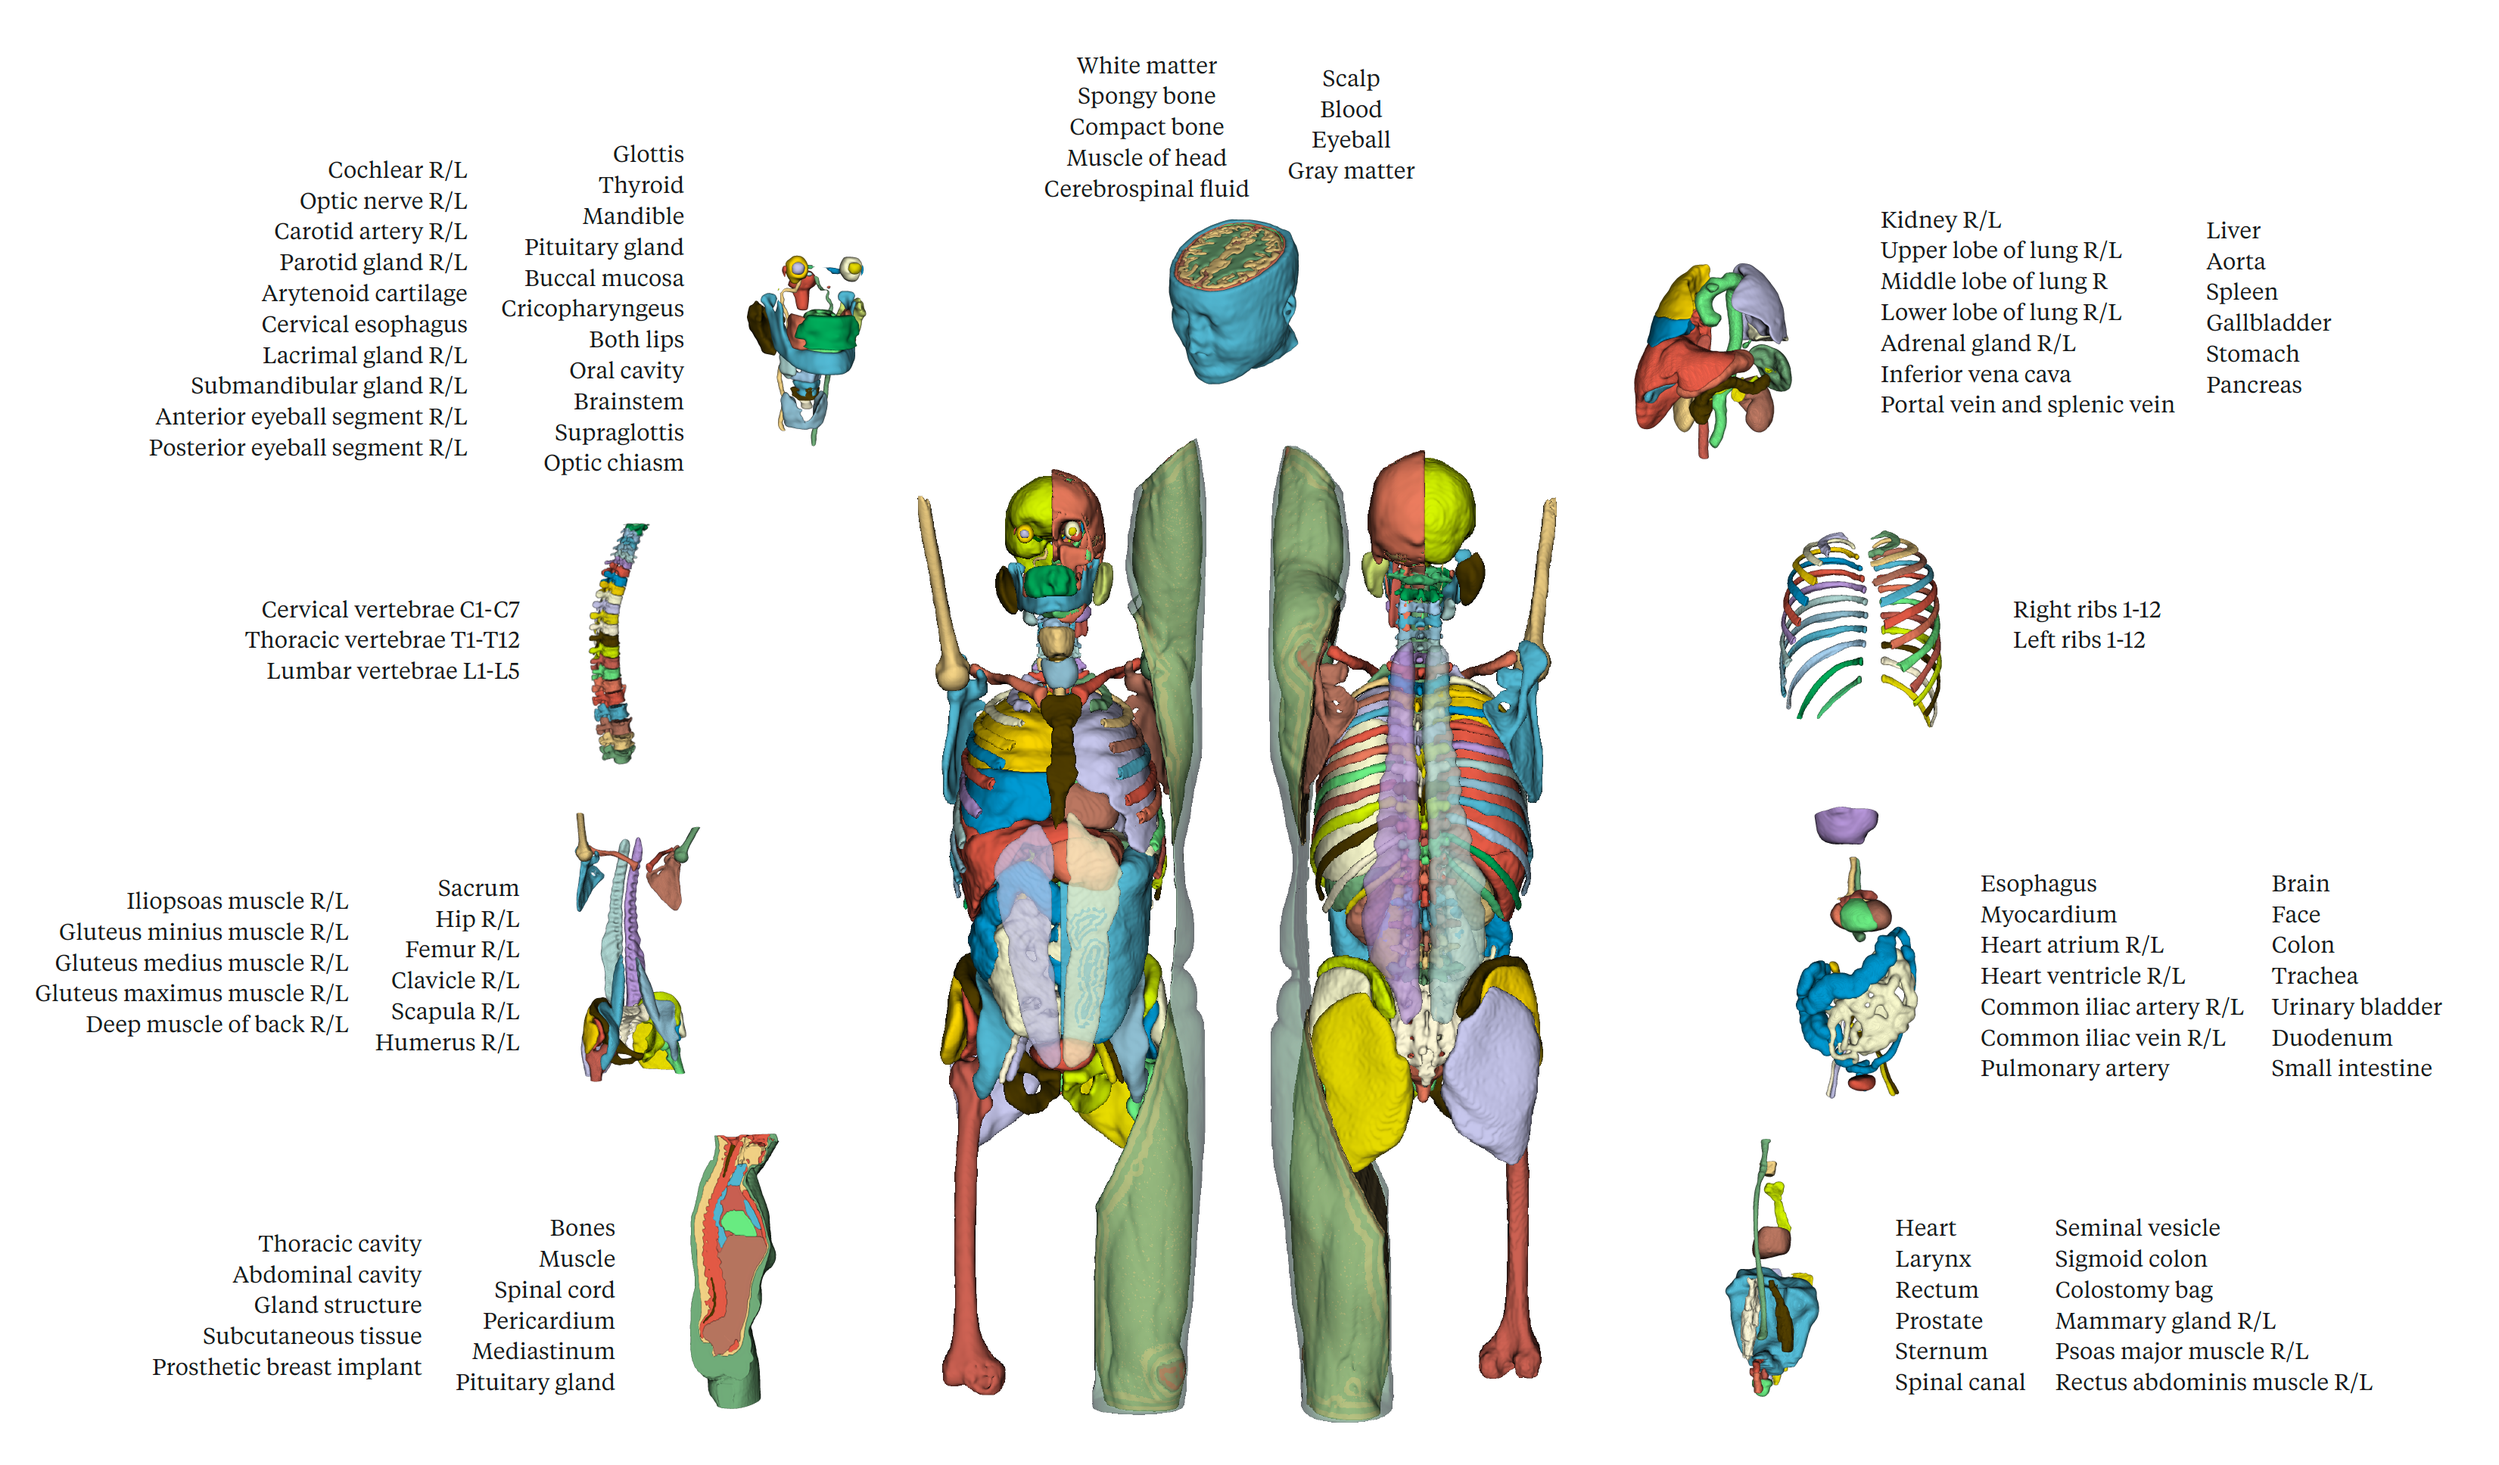
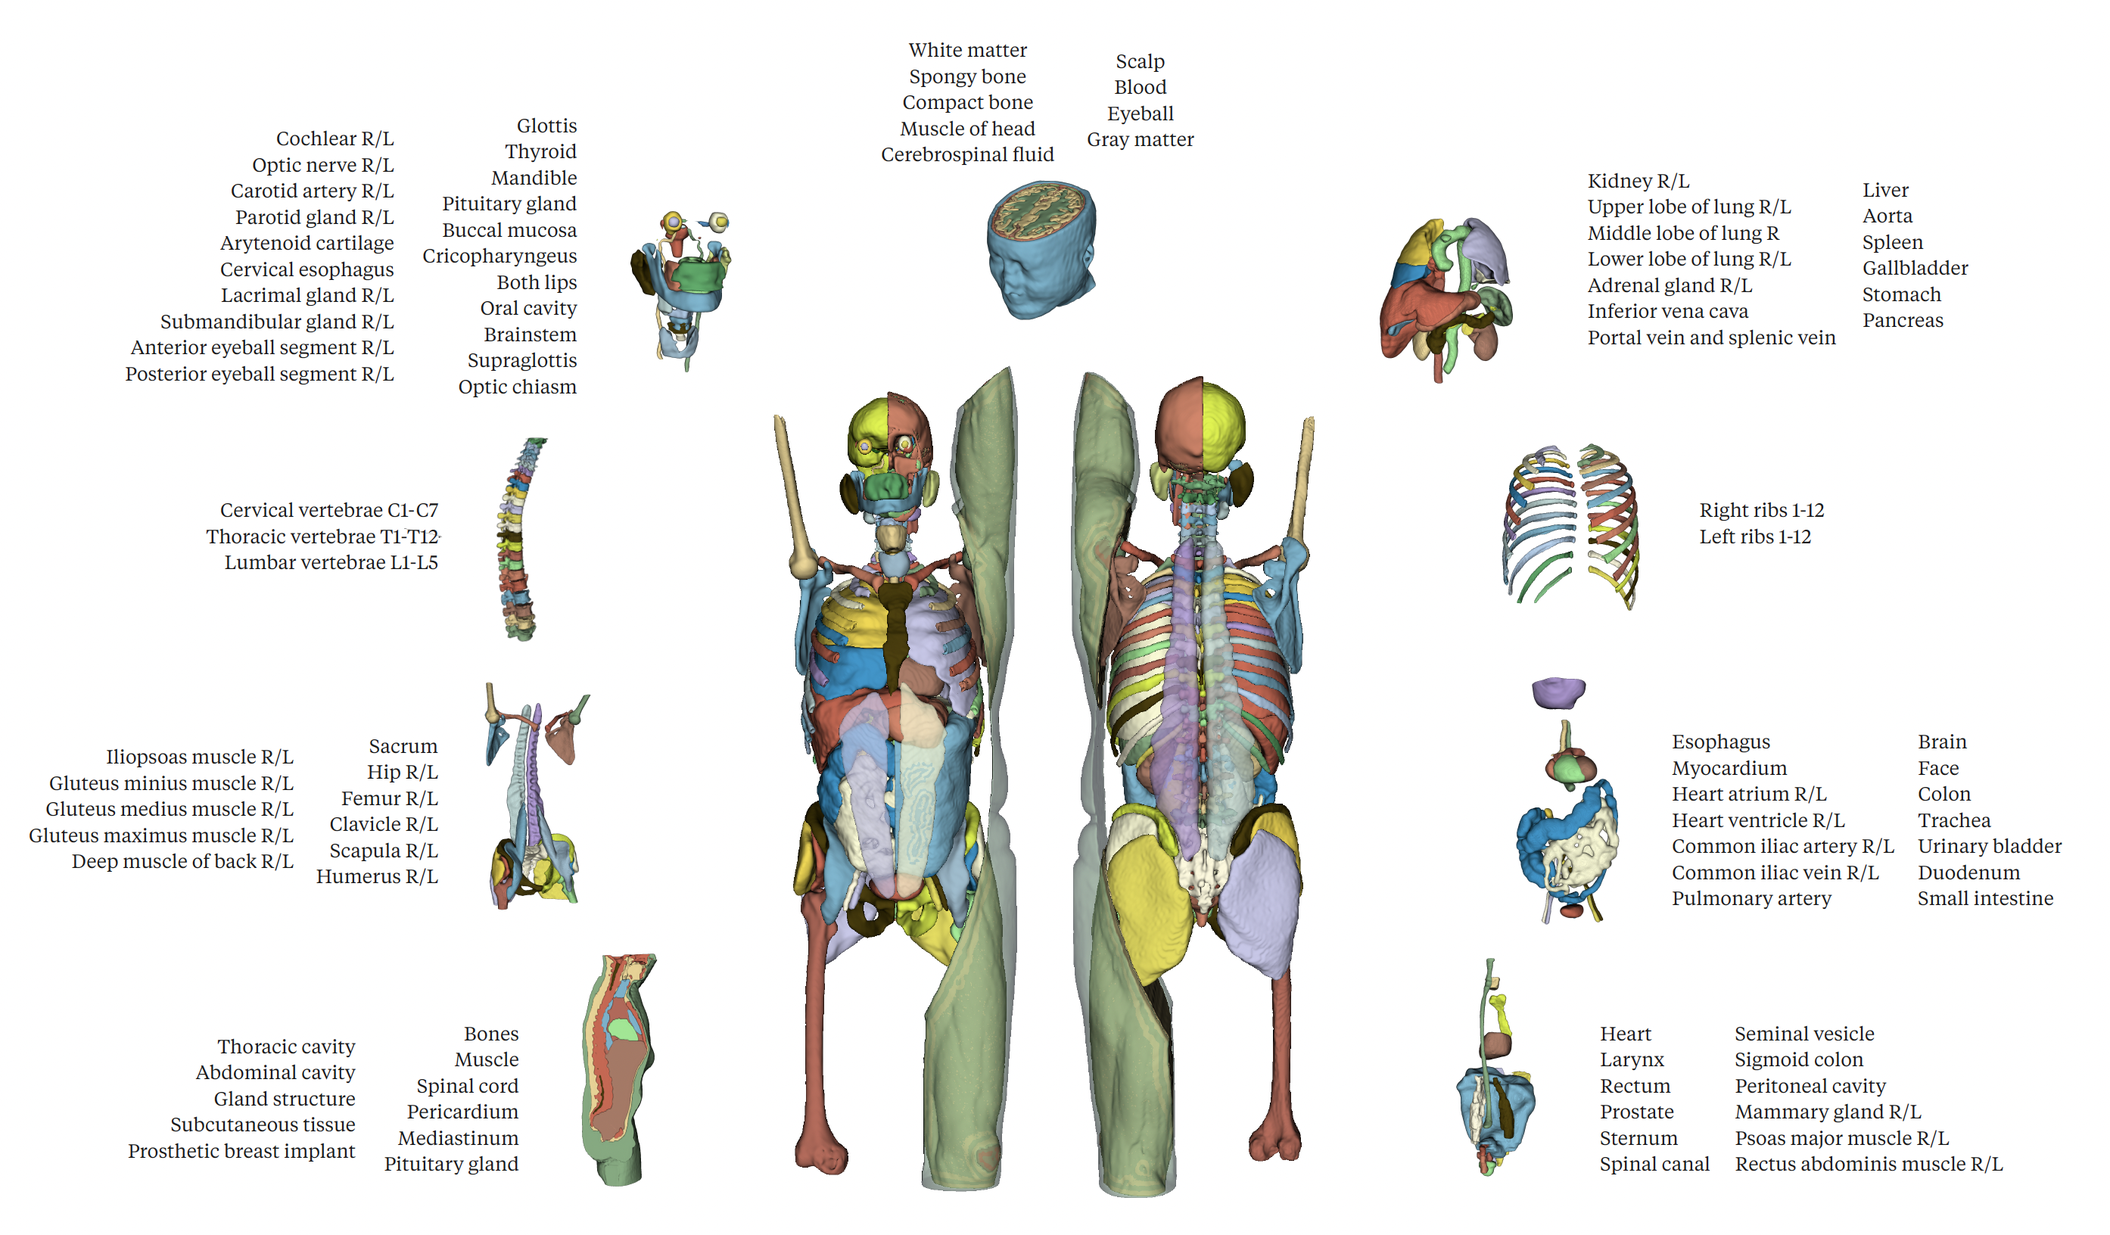
Fix naming error from colostomy bag to peritoneal cavity

diff --git a/cads/dataset_utils/bodyparts_labelmaps.py b/cads/dataset_utils/bodyparts_labelmaps.py
@@ -134,7 +134,7 @@ labelmap_part_oarrad = {
     1: "spinal_canal",
     2: "larynx",
     3: "heart",
-    4: "bowel_bag",
+    4: "bowel_bag",  # peritoneal cavity
     5: "sigmoid",
     6: "rectum",
     7: "prostate",
@@ -331,7 +331,7 @@ labelmap_all_structure = {
     105: 'spinal_canal',
     106: 'larynx',
     107: 'heart',
-    108: 'bowel_bag',
+    108: 'bowel_bag',  # peritoneal cavity
     109: 'sigmoid',
     110: 'rectum',
     111: 'prostate',
@@ -501,7 +501,7 @@ labelmap_all_structure_renamed = {
     105: 'Spinal canal',
     106: 'Larynx',
     107: 'Heart',
-    108: 'Colostomy bag',
+    108: 'Peritoneal cavity',
     109: 'Sigmoid colon',
     110: 'Rectum',
     111: 'Prostate',
@@ -610,7 +610,7 @@ totalseg_exclude_to_compare = [
     'Rectus abdominis muscle R',
     'Rectus abdominis muscle L',
     'Spinal canal', 
-    'Colostomy bag',
+    'Peritoneal cavity',
     'Sigmoid colon',
     'Rectum',
     'Seminal vesicle',
@@ -697,7 +697,7 @@ anatomical_systems = {
     "Digestive System": [
         "Liver", "Stomach", "Pancreas", "Small intestine", "Duodenum", "Colon",
         "Gallbladder", "Sigmoid colon", "Rectum", "Oral cavity",
-        "Esophagus", "Cervical esophagus", "Colostomy bag", "Cricopharyngeus"
+        "Esophagus", "Cervical esophagus", "Peritoneal cavity", "Cricopharyngeus"
     ],
     "Urinary System": [
         "Kidney R", "Kidney L", "Urinary bladder"

diff --git a/cads/dataset_utils/datasets_labelmap.py b/cads/dataset_utils/datasets_labelmap.py
@@ -103,7 +103,7 @@ visceralnew_labelmap = {
     8: 'heart',
     9: 'esophagus',
     10: 'stomach',
-    11: 'bowel_bag',
+    11: 'bowel_bag',  # peritoneal cavity
     12: 'sigmoid',
     13: 'rectum',
     14: 'prostate',

diff --git a/README.md b/README.md
@@ -101,7 +101,7 @@ Humerus R/L, Scapula R/L, Clavicle R/L, Femur R/L, Hip R/L, Sacrum, Gluteus maxi
 Ribs 1-12 R/L.
 
 **Task 556: Miscellaneous structures for radiation therapy**
-Spinal canal, Larynx, Heart, Colostomy bag, Sigmoid colon, Rectum, Prostate, Seminal vesicle, Mammary gland R/L, Sternum, Psoas major muscle R/L, Rectus abdominis muscle R/L.
+Spinal canal, Larynx, Heart, Peritoneal cavity, Sigmoid colon, Rectum, Prostate, Seminal vesicle, Mammary gland R/L, Sternum, Psoas major muscle R/L, Rectus abdominis muscle R/L.
 
 **Task 557: Brain and head tissues**
 White matter, Gray matter, Cerebrospinal fluid, Scalp, Eyeballs, Compact bone, Spongy bone, Blood, Muscle of head.

diff --git a/resources/info/labelmap.md b/resources/info/labelmap.md
@@ -158,7 +158,7 @@
 | 1     | Spinal canal                  |
 | 2     | Larynx                        |
 | 3     | Heart                         |
-| 4     | Colostomy bag                 |
+| 4     | Peritoneal cavity             |
 | 5     | Sigmoid colon                 |
 | 6     | Rectum                        |
 | 7     | Prostate                      |
